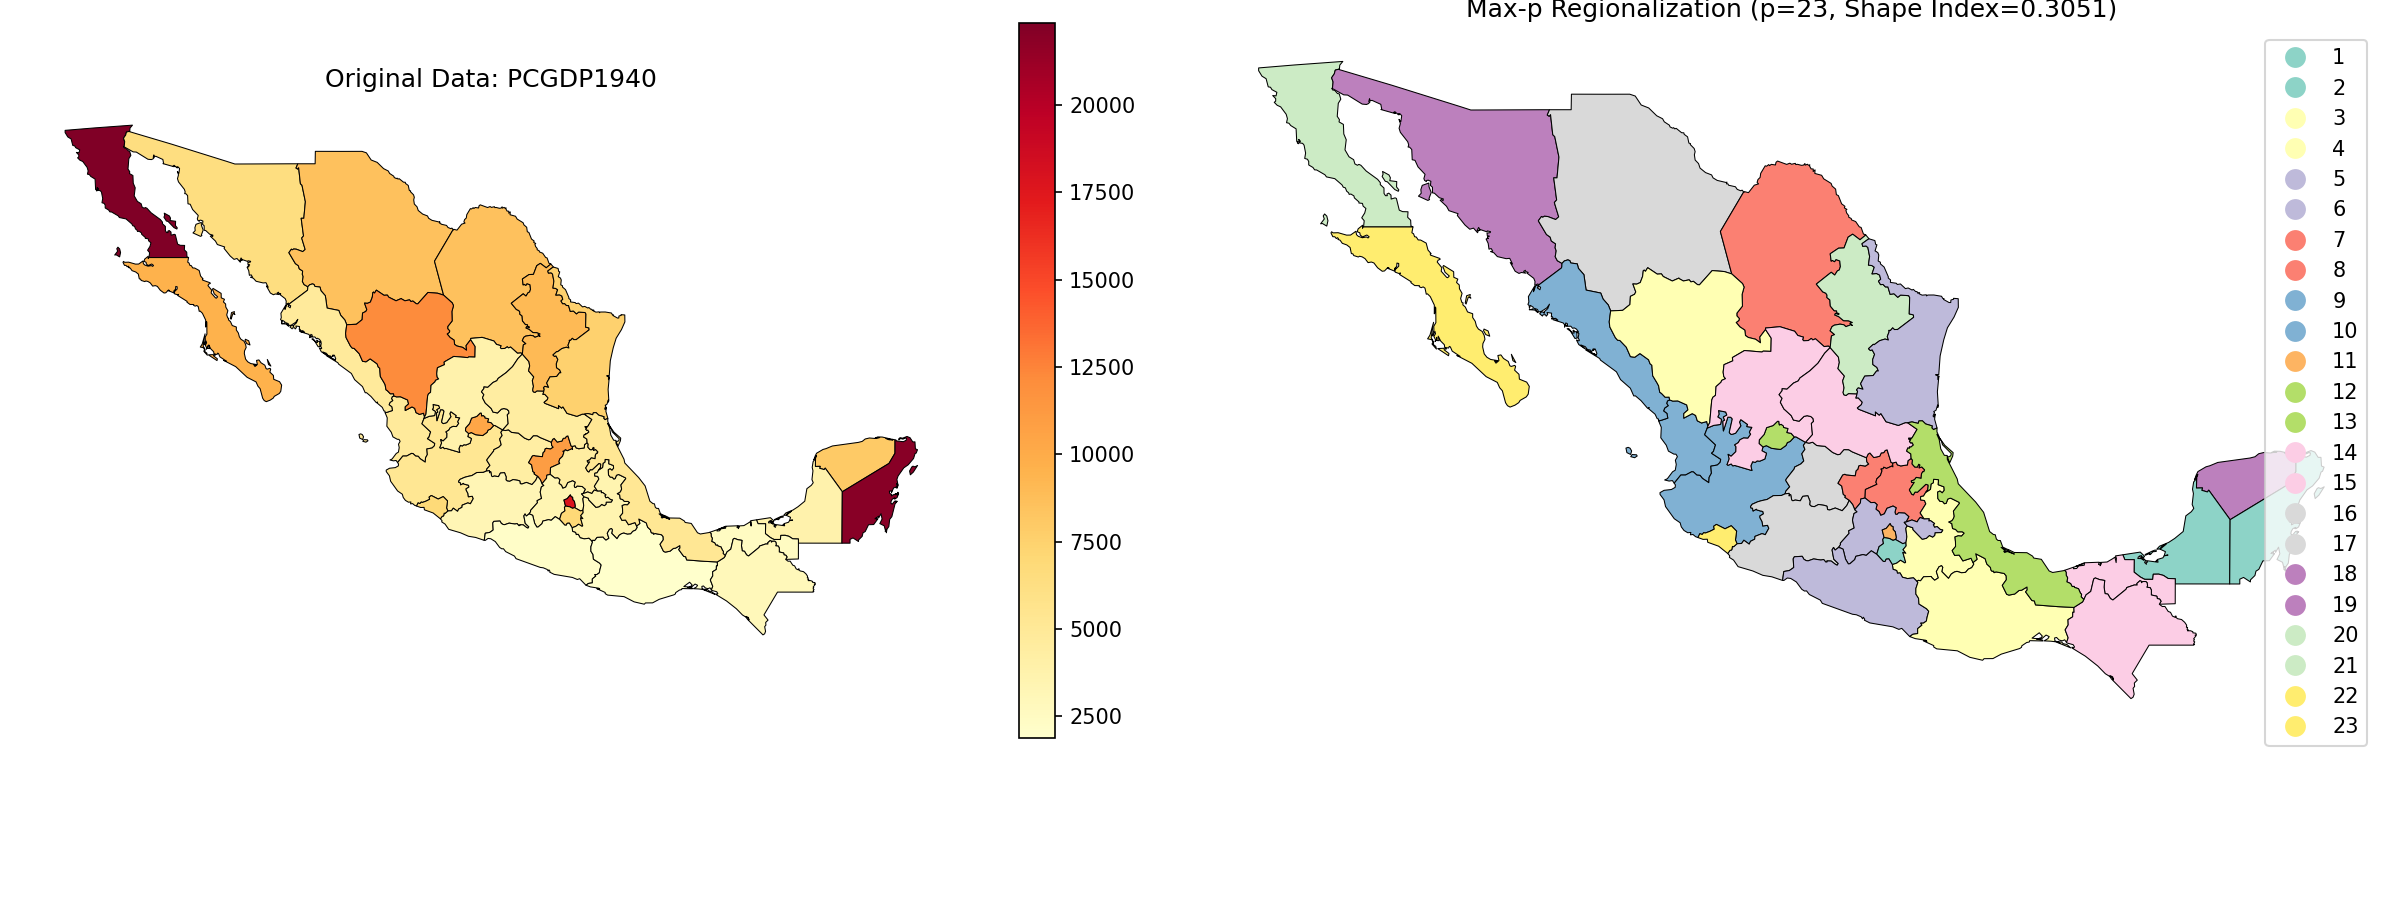
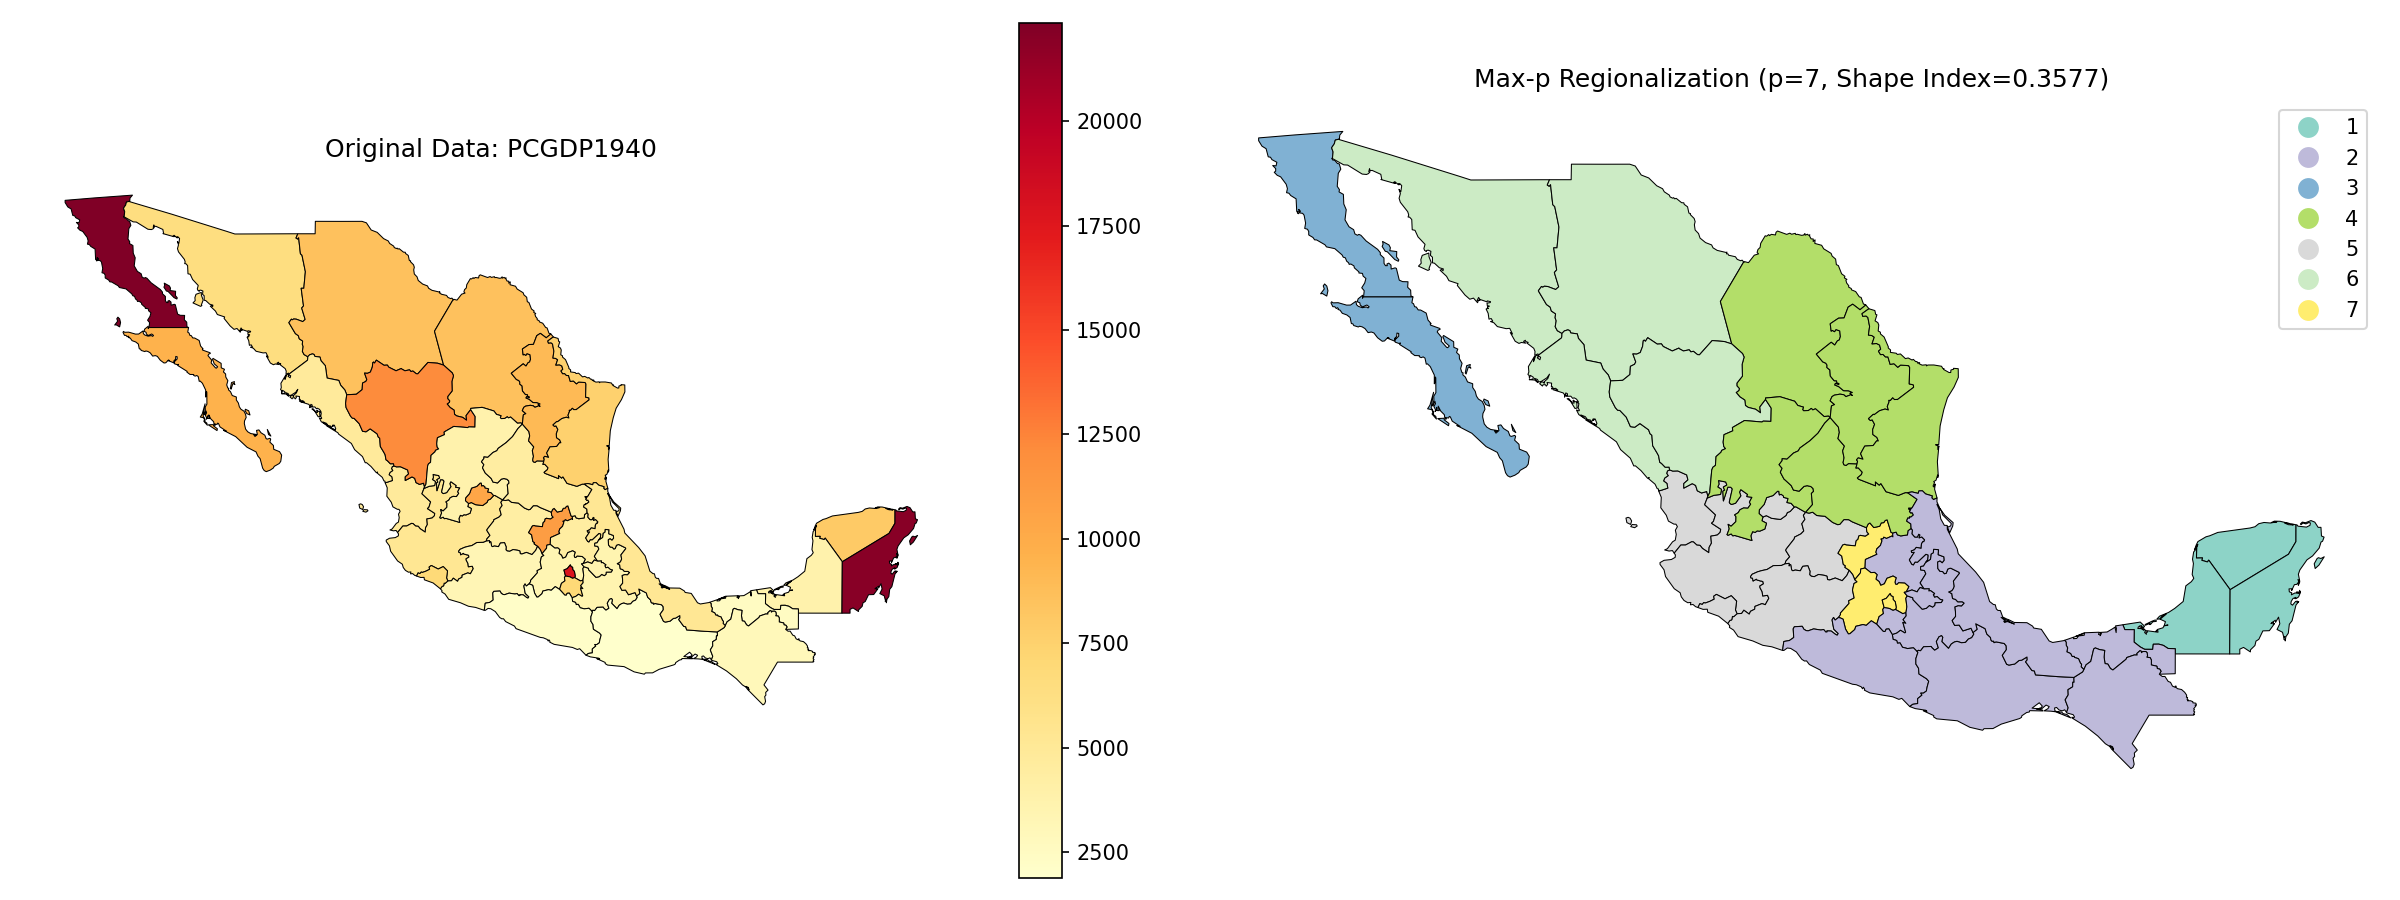
reduce number of p in demo script

diff --git a/examples/test_demo.py b/examples/test_demo.py
@@ -42,7 +42,7 @@ def main():
     flag_ea = 1        # Enable compactness in enclave assignment
     randomGrow = 2
     randomAssign = 2
-    threshold = 5000   # Minimum threshold for each region
+    threshold = 30000  # Higher threshold = fewer regions (easier to verify visually)
     ITERCONSTRUCT = 50 # Reduced for faster testing
 
     threshold_name = 'PCGDP1940'
